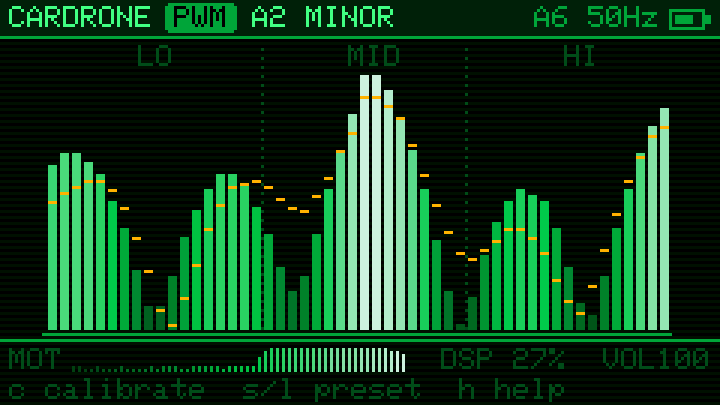
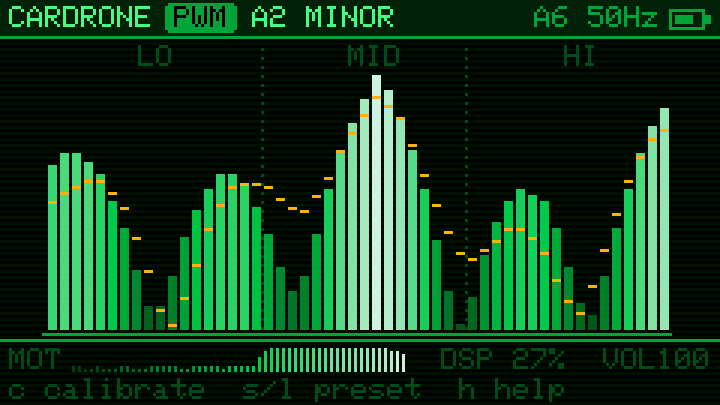
Rebuild subcarriers -1/+1 so the waterfall has no seam at DC
They sit beside the radio's carrier leakage and read far off the room, which
drew a line down the middle of the waterfall and bars. They are now
interpolated from their neighbours and left out of the phase feature. This also
covers the S3's garbage first word, so that separate workaround is gone.

diff --git a/src/csi.h b/src/csi.h
@@ -6,6 +6,7 @@
 #include <cstring>
 
 constexpr int NSC = 52;          // used LLTF subcarriers, ordered -26..-1, 1..26
+constexpr int DC_L = NSC / 2 - 1, DC_R = NSC / 2;  // subcarriers -1 and +1, either side of DC
 constexpr int NBAND = 3;         // LO / MID / HI subcarrier groups
 constexpr int kCalFrames = 150;  // ~3 s of baseline at the 50 Hz ping rate
 // Smallest normaliser range, as a multiple of the noise floor. Higher = a still
@@ -54,18 +55,22 @@ struct Csi {
   }
 
   // b: raw CSI buffer, LLTF first (64 bins of imag,real int8 pairs).
-  void frame(const int8_t* b, int len, int rssiDbm, bool firstWordBad) {
+  void frame(const int8_t* b, int len, int rssiDbm) {
     if (len < 128) return;
     float a[NSC], sum = 0, sinSum = 0;
     int nv = 0;
     for (int k = 0; k < NSC; k++) {
-      int i = k < 26 ? 38 + k : k - 25;    // bins -26..-1 live at 38..63, 1..26 at 1..26
-      if (i == 1 && firstWordBad) i = 2;   // S3 quirk: first 4 bytes may be garbage
+      int i = k < 26 ? 38 + k : k - 25;  // bins -26..-1 live at 38..63, 1..26 at 1..26
       float im = b[2 * i], re = b[2 * i + 1];
       a[k] = sqrtf(re * re + im * im);
-      sum += a[k];
-      if (a[k] > 0.5f) { sinSum += im / a[k]; nv++; }
+      if (k != DC_L && k != DC_R && a[k] > 0.5f) { sinSum += im / a[k]; nv++; }
     }
+    // -1/+1 sit beside the radio's own carrier leakage (and +1 in the S3's
+    // sometimes-garbage first word): rebuild them from their neighbours, or they
+    // draw a seam down the middle of the waterfall.
+    a[DC_L] = (2 * a[DC_L - 1] + a[DC_R + 1]) / 3;
+    a[DC_R] = (a[DC_L - 1] + 2 * a[DC_R + 1]) / 3;
+    for (float v : a) sum += v;
     if (sum < 1) return;
     float inv = NSC / sum;  // divide out AGC gain, keep only the multipath shape
     bool first = frames == 0;

diff --git a/test/screens.cpp b/test/screens.cpp
@@ -32,7 +32,7 @@ static int esp_reset_reason() { return ESP_RST_POWERON; }
 constexpr int APP_CPU_NUM = 1, ESP_OK = 0;
 static void xTaskCreatePinnedToCore(void (*)(void*), const char*, int, void*, int, void*, int) {}
 
-struct wifi_csi_info_t { struct { int rssi, channel; } rx_ctrl; uint8_t mac[6]; bool first_word_invalid; int8_t* buf; int len; };
+struct wifi_csi_info_t { struct { int rssi, channel; } rx_ctrl; uint8_t mac[6]; int8_t* buf; int len; };
 struct wifi_promiscuous_filter_t { uint32_t filter_mask; };
 struct wifi_csi_config_t { bool lltf_en, htltf_en, stbc_htltf2_en, ltf_merge_en, channel_filter_en; };
 enum { WIFI_PROMIS_FILTER_MASK_MGMT = 1, WIFI_PROMIS_FILTER_MASK_DATA = 2, WIFI_SECOND_CHAN_NONE = 0 };
@@ -152,7 +152,7 @@ static void feedFrame(float t, bool moving) {
     b[2 * i] = (int8_t)(h.imag() + (rand() % 3 - 1));
     b[2 * i + 1] = (int8_t)(h.real() + (rand() % 3 - 1));
   }
-  csi.frame(b, 128, moving ? -52 + (int)(4 * sinf(t)) : -55, false);
+  csi.frame(b, 128, moving ? -52 + (int)(4 * sinf(t)) : -55);
 }
 
 static void savePng(const char* path) {  // 3x nearest-neighbour, RGB565 -> RGB888

diff --git a/test/host_test.cpp b/test/host_test.cpp
@@ -28,7 +28,7 @@ static void feed(float wobble, float noise, int n, float& t) {
       b[2 * i] = (int8_t)(amp * 0.6f);
       b[2 * i + 1] = (int8_t)(amp * 0.8f);
     }
-    csi.frame(b, 128, -55, true);
+    csi.frame(b, 128, -55);
   }
 }
 
@@ -82,6 +82,16 @@ int main(int argc, char** argv) {
   assert(csi.calLeft == -1 && !csi.calibrated);
   csi.calibrate();
   feed(0, 1.5f, kCalFrames, t);
+
+  // A carrier-leak spike beside DC must not show up as a seam: -1/+1 land between their neighbours.
+  {
+    Csi c;
+    int8_t b[128] = {};
+    for (int i = 0; i < 64; i++) b[2 * i + 1] = 30;
+    b[2 * 63 + 1] = 120, b[2 * 1 + 1] = 2;  // -1 hot, +1 dead
+    c.frame(b, 128, -55);
+    assert(fabsf(c.fast[DC_L] - c.fast[DC_L - 1]) < 1e-3f && fabsf(c.fast[DC_R] - c.fast[DC_R + 1]) < 1e-3f);
+  }
 
   // Every engine with every FX and swinging sources: finite, audible, not pinned.
   float src[NSRC] = {}, prof[NSC];

diff --git a/src/main.cpp b/src/main.cpp
@@ -114,7 +114,7 @@ static void onCsi(void*, wifi_csi_info_t* info) {  // WiFi task, core 0
   if (!info || !info->buf || info->len < 128) return;
   if (csiState == CS_RUN) {
     if (!memcmp(info->mac, apMac, 6))  // one transmitter: one coherent channel
-      csi.frame(info->buf, info->len, info->rx_ctrl.rssi, info->first_word_invalid);
+      csi.frame(info->buf, info->len, info->rx_ctrl.rssi);
   } else if (csiState == CS_SURVEY) {  // count CSI-bearing frames per transmitter
     int i = 0;
     while (i < nTalk && memcmp(talk[i].mac, info->mac, 6)) i++;
